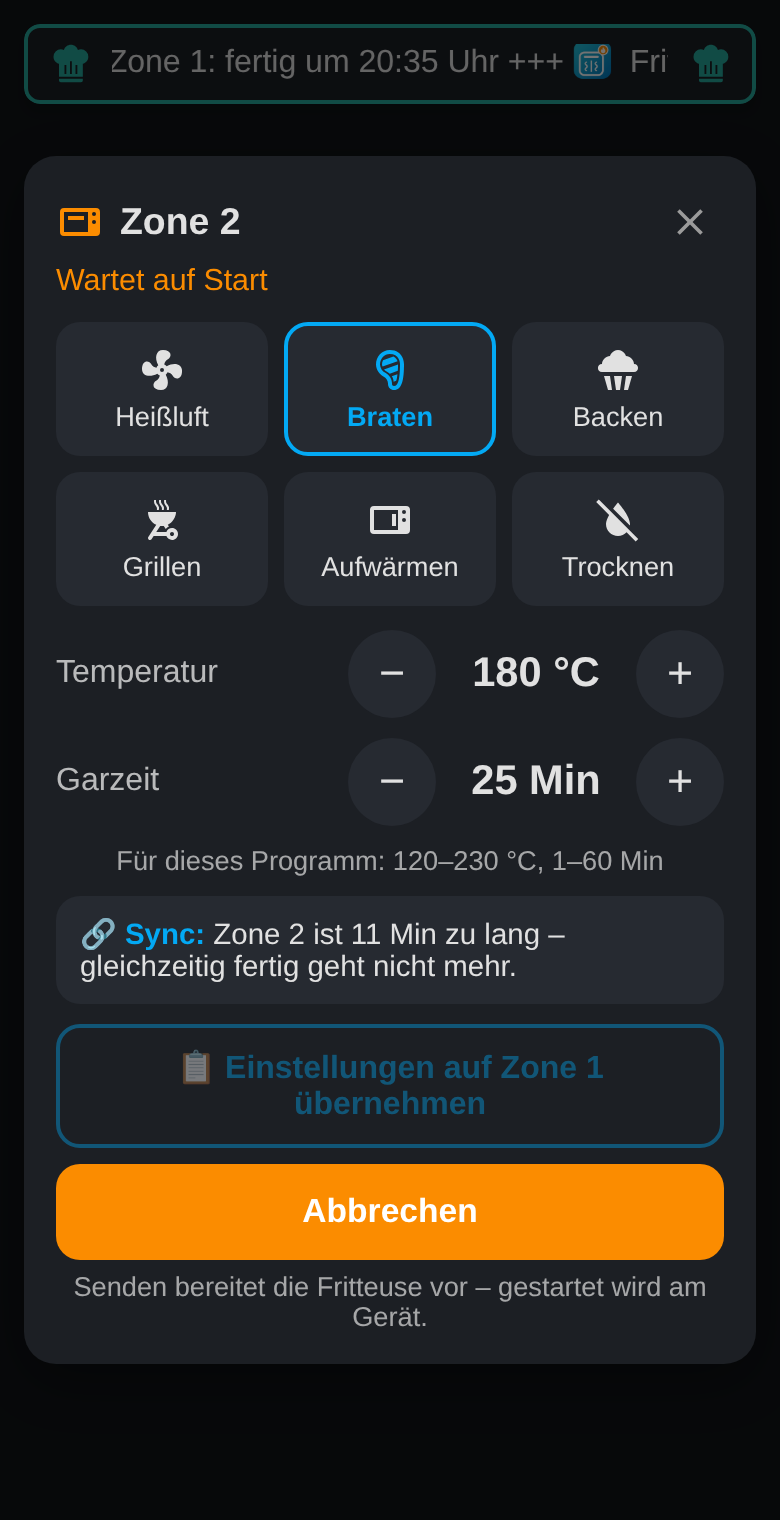
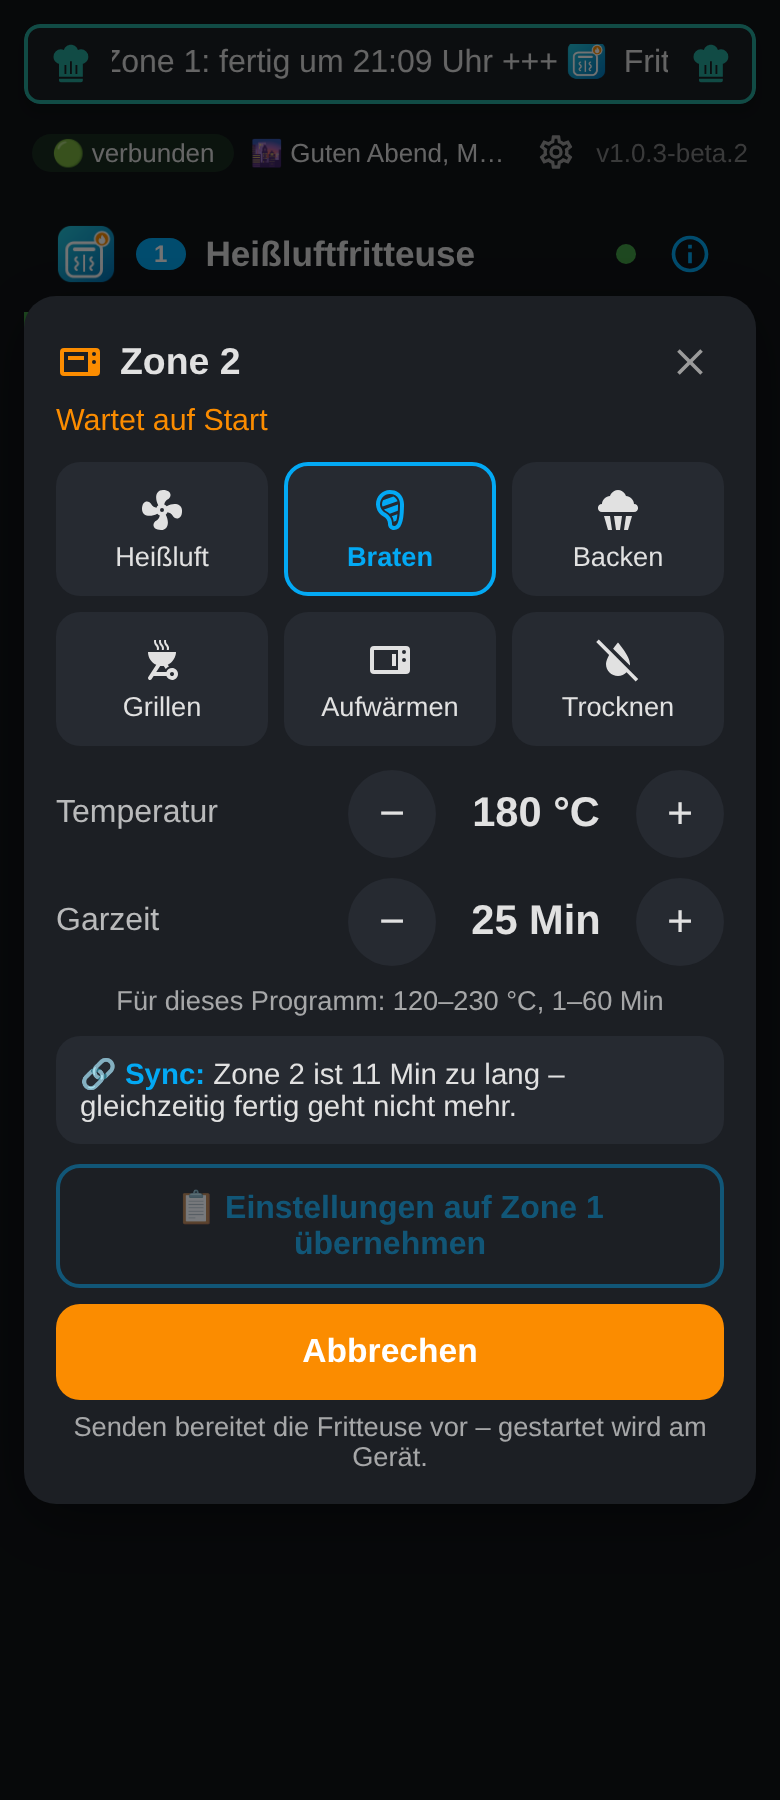
Beta 1.0.3-beta.2: Maskottchen auch in der Seitenleiste, Leiste oben und Anleitung wie bei der Einkaufsliste
- 🍟 Neuer Schalter in den Optionen der Integration: „Maskottchen in der Seitenleiste zeigen“
- 🟢 Leiste über der Karte: verbunden/offline, Gruß, ⚙ zu den Einstellungen (nur Admins), Version
- 🔢 Blaue Zahl oben = so viele Zonen garen gerade
- 📖 Knopf „Anleitung“ unter der Karte mit kurzer Erklärung
- Leiste und Anleitung lassen sich im Karten-Editor ausschalten

Claude-Session: https://claude.ai/code/session_01SxKsjdAqznATVt32xCzeSU

diff --git a/custom_components/airfryer_control/www/airfryer-control-card.js b/custom_components/airfryer_control/www/airfryer-control-card.js
@@ -146,6 +146,18 @@ const BASE_CSS = `
   @keyframes achop { 0%,100% { transform:translateY(0); } 40% { transform:translateY(-3px); } }
   @media (prefers-reduced-motion: reduce) { .ac-mascot { animation:none !important; } }
   .ac-head h2 { margin:0; font-size:1.1rem; font-weight:600; flex:1; }
+  /* 🟢 Leiste über der Karte – genau wie bei der Einkaufsliste */
+  .ac-top { display:flex; align-items:center; gap:8px; margin:0 4px 8px; font-size:13px; color:var(--secondary-text-color); }
+  .ac-pill { border-radius:999px; padding:2px 10px; background:color-mix(in srgb, var(--success-color,#43a047) 18%, transparent); color:var(--primary-text-color); white-space:nowrap; }
+  .ac-pill.off { background:color-mix(in srgb, var(--error-color,#db4437) 20%, transparent); }
+  .ac-greet { flex:1; min-width:0; overflow:hidden; white-space:nowrap; text-overflow:ellipsis; text-align:center; color:var(--primary-text-color); }
+  .ac-top .ac-ibtn { padding:2px; } .ac-top .ac-ibtn ha-icon { --mdc-icon-size:20px; }
+  .ac-ver { opacity:.8; }
+  .ac-badge { background:var(--primary-color,#03a9f4); color:var(--text-primary-color,#fff); border-radius:999px; padding:1px 9px; font-size:.75em; font-weight:600; }
+  /* 📖 Knopfreihe unter der Karte – wie bei der Einkaufsliste */
+  .ac-foot { display:flex; justify-content:center; gap:10px; margin:14px 6px 8px; font-size:13px; color:var(--secondary-text-color); }
+  .ac-foot button { font:inherit; color:inherit; background:none; text-decoration:underline; border:1px solid var(--divider-color, rgba(127,127,127,.3)); border-radius:12px; padding:8px 18px; cursor:pointer; }
+  .ac-guide h4 { margin:14px 0 4px; } .ac-guide p { margin:4px 0; line-height:1.45; }
   .ac-dot { width:10px; height:10px; border-radius:50%; background:#43A047; }
   .ac-dot.off { background:#9e9e9e; }
   .ac-ibtn { background:none; border:none; color:var(--secondary-text-color); cursor:pointer; padding:6px; border-radius:50%; display:flex; }
@@ -213,6 +225,27 @@ function creditsHtml(hass) {
   </div>`;
 }
 
+// 👋 Gruß in der Leiste oben – dieselben Zeiten wie bei der Einkaufsliste
+function acGreeting(hass, now = new Date()) {
+  const hr = now.getHours();
+  const de = hr >= 22 || hr < 5 ? "🌙 Gute Nacht" : hr < 10 ? "☀ Guten Morgen" : hr < 12 ? "🍽 Mahlzeit" : hr < 18 ? "👋 Grüß dich" : "🌆 Guten Abend";
+  const en = hr >= 22 || hr < 5 ? "🌙 Good night" : hr < 12 ? "☀ Good morning" : hr < 18 ? "👋 Hi" : "🌆 Good evening";
+  const first = String(hass?.user?.name || "").trim().split(/\s+/)[0];
+  const base = tr(hass, de, en);
+  return first ? `${base}, ${first}` : base;
+}
+// 📖 Kurze Anleitung (öffnet sich über den Knopf unter der Karte)
+function acGuideHtml(hass) {
+  const t = (d, e) => tr(hass, d, e);
+  return `<h3 style="margin:0 0 6px">📖 ${t("Anleitung", "Guide")}</h3>
+    <h4>🍟 ${t("Zonen", "Zones")}</h4><p>${t("Jede Zeile ist eine Zone deiner Fritteuse. Farbe und Text zeigen, was sie gerade macht: <b>grün</b> = gart, <b>orange</b> = wartet auf Start, <b>grau</b> = bereit oder aus.", "Each row is one zone of your air fryer. Colour and text show what it is doing: <b>green</b> = cooking, <b>orange</b> = waiting for start, <b>grey</b> = ready or off.")}</p>
+    <h4>⚙ ${t("Programm einstellen", "Set a program")}</h4><p>${t("Zeile antippen → Programm, Temperatur und Zeit wählen → <b>Senden</b>. Die Fritteuse ist dann vorbereitet – <b>gestartet wird immer am Gerät</b>.", "Tap a row → choose program, temperature and time → <b>Send</b>. The fryer is then prepared – <b>you always start it on the device</b>.")}</p>
+    <h4>⏹ ${t("Runder Knopf rechts", "Round button on the right")}</h4><p>${t("<b>Grün</b> = senden, <b>Orange</b> = abbrechen (noch nicht gestartet), <b>Rot</b> = Garen beenden.", "<b>Green</b> = send, <b>orange</b> = cancel (not started yet), <b>red</b> = stop cooking.")}</p>
+    <h4>🔗 ${t("Match & Sync", "Match & Sync")}</h4><p>${t("Bei zwei Zonen: „Einstellungen übernehmen“ kopiert die andere Zone. Sync sagt dir, wann du die zweite Zone startest, damit beide gleichzeitig fertig sind.", "With two zones: “Use settings” copies the other zone. Sync tells you when to start the second zone so both finish together.")}</p>
+    <h4>🔢 ${t("Oben", "At the top")}</h4><p>${t("Die blaue Zahl = so viele Zonen garen gerade. 🟢/🔴 = Fritteuse online oder offline. ⚙ (nur Admins) öffnet die Einstellungen der Integration, z. B. Seitenleiste und Maskottchen.", "The blue number = zones cooking right now. 🟢/🔴 = fryer online or offline. ⚙ (admins only) opens the integration settings, e.g. sidebar and mascot.")}</p>
+    <h4>🎃 ${t("Maskottchen", "Mascot")}</h4><p>${t("Im Karten-Editor (oder für die Seitenleiste in den Optionen der Integration) einschalten. Es zieht sich je nach Jahreszeit um.", "Switch it on in the card editor (or, for the sidebar, in the integration options). It changes costumes with the seasons.")}</p>`;
+}
+
 // ---------- Hauptkarte ----------
 class AirfryerControlCard extends HTMLElement {
   constructor() {
@@ -236,7 +269,7 @@ class AirfryerControlCard extends HTMLElement {
     const zones = findZones(hass);
     const sig = zones.map((z) => [z.state, z.finish, z.mode, z.temp, z.time, z.sw]
       .map((e) => { const s = hass.states[e]; return s ? s.state + "|" + (s.attributes?.min ?? "") + (s.attributes?.max ?? "") : "-"; }).join(",")).join(";")
-      + "#" + (hass.states["binary_sensor.cosori_online"]?.state || "") + this._open + (hass.language || "");
+      + "#" + (hass.states["binary_sensor.cosori_online"]?.state || "") + this._open + (hass.language || "") + new Date().getHours();
     if (sig === this._sig) return;
     this._sig = sig;
     this._zones = zones;
@@ -271,14 +304,22 @@ class AirfryerControlCard extends HTMLElement {
         <button class="ac-go" data-go="${esc(z.key)}" style="--b:${b.color}" title="${esc(b.text)}" ${z.sw ? "" : "disabled"}><ha-icon icon="${b.icon}"></ha-icon></button>
       </div>`;
     }).join("");
-    this.shadowRoot.innerHTML = `<style>${BASE_CSS}</style>
+    const running = zones.filter((z) => RUNNING.includes(hass.states[z.state]?.state)).length; // 🔢 Zahl-Blase = wie viele Zonen gerade garen
+    const on = online?.state === "on";
+    const top = this._config.statuszeile === false ? "" : `<div class="ac-top">
+        <span class="ac-pill ${on ? "" : "off"}">${on ? `🟢 ${esc(tr(hass, "verbunden", "connected"))}` : `🔴 ${esc(tr(hass, "offline", "offline"))}`}</span>
+        <span class="ac-greet">${esc(acGreeting(hass))}</span>
+        ${hass.user?.is_admin ? `<button class="ac-ibtn" data-settings title="${esc(tr(hass, "Einstellungen der Integration", "Integration settings"))}"><ha-icon icon="mdi:cog-outline"></ha-icon></button>` : ""}
+        ${AC_VERSION ? `<span class="ac-ver" translate="no">v${esc(AC_VERSION)}</span>` : ""}</div>`;
+    this.shadowRoot.innerHTML = `<style>${BASE_CSS}</style>${top}
       <ha-card>
-        <div class="ac-head">${this._config.maskottchen ? `<span class="ac-masc" title="${esc(tr(hass, "Maskottchen (im Karten-Editor abschaltbar)", "Mascot (switch off in the card editor)"))}">${acMascotSvg(acMood(hass, zones), acDeco())}</span>` : `<img class="ac-logo" src="${AC_BASE}/icon.png?v=${esc(AC_VERSION)}" alt="" width="30" height="30">`}<h2>${esc(title)}</h2>
+        <div class="ac-head">${this._config.maskottchen ? `<span class="ac-masc" title="${esc(tr(hass, "Maskottchen (im Karten-Editor abschaltbar)", "Mascot (switch off in the card editor)"))}">${acMascotSvg(acMood(hass, zones), acDeco())}</span>` : `<img class="ac-logo" src="${AC_BASE}/icon.png?v=${esc(AC_VERSION)}" alt="" width="30" height="30">`}${running ? `<span class="ac-badge" title="${esc(tr(hass, "Zonen, die gerade garen", "Zones cooking right now"))}">${running}</span>` : ""}<h2>${esc(title)}</h2>
           <span class="ac-dot ${online && online.state === "on" ? "" : "off"}" title="${online?.state === "on" ? "Online" : "Offline"}"></span>
           <button class="ac-ibtn" data-info title="Info"><ha-icon icon="mdi:information-outline"></ha-icon></button></div>
         <div class="ac-zones">${rows || `<div class="ac-empty">${esc(tr(hass, "Keine Zonen gefunden. Ist die Integration „Airfryer Control“ eingerichtet und die Fritteuse online?", "No zones found. Is the “Airfryer Control” integration set up and the fryer online?"))}</div>`}</div>
         ${this._dialogHtml(zones)}
-      </ha-card>`;
+      </ha-card>
+      ${this._config.anleitung === false ? "" : `<div class="ac-foot"><button type="button" data-guide>📖 ${esc(tr(hass, "Anleitung", "Guide"))}</button></div>`}`;
     this._wire();
   }
 
@@ -367,6 +408,9 @@ class AirfryerControlCard extends HTMLElement {
   _dialogHtml(zones) {
     const hass = this._hass;
     if (!this._open) return "";
+    if (this._open === "__guide") {
+      return `<div class="ac-over" data-close><div class="ac-dlg ac-guide">${acGuideHtml(hass)}<button class="ac-big" data-close style="--b:var(--primary-color)">${esc(tr(hass, "Schließen", "Close"))}</button></div></div>`;
+    }
     if (this._open === "__credits") {
       return `<div class="ac-over" data-close><div class="ac-dlg">${creditsHtml(hass)}<button class="ac-big" data-close style="--b:var(--primary-color)">${esc(tr(hass, "Schließen", "Close"))}</button></div></div>`;
     }
@@ -408,6 +452,11 @@ class AirfryerControlCard extends HTMLElement {
     }));
     const info = root.querySelector("[data-info]");
     if (info) info.addEventListener("click", () => { this._open = "__credits"; this._sig = ""; this.hass = this._hass; });
+    root.querySelector("[data-guide]")?.addEventListener("click", () => { this._open = "__guide"; this._sig = ""; this.hass = this._hass; });
+    root.querySelector("[data-settings]")?.addEventListener("click", () => { // ⚙ direkt zu den Optionen der Integration
+      history.pushState(null, "", "/config/integrations/integration/airfryer_control");
+      window.dispatchEvent(new CustomEvent("location-changed", { detail: { replace: false } }));
+    });
     root.querySelectorAll("[data-close]").forEach((el) => el.addEventListener("click", (e) => {
       if (el.classList.contains("ac-over") && e.target !== el) return;
       this._open = null; this._sig = ""; this.hass = this._hass;
@@ -555,8 +604,9 @@ class AirfryerControlTicker extends HTMLElement {
 }
 
 // ---------- Editoren ----------
-function makeEditor(schemaFn, labelFn) {
+function makeEditor(schemaFn, labelFn, defaults) {
   return class extends HTMLElement {
+    get _defaults() { return defaults; }
     setConfig(config) { this._config = config; this._draw(); }
     set hass(hass) { this._hass = hass; this._draw(); }
     _draw() {
@@ -570,16 +620,16 @@ function makeEditor(schemaFn, labelFn) {
         this.appendChild(this._form);
       }
       this._form.hass = this._hass;
-      this._form.data = this._config;
+      this._form.data = { ...(this._defaults || {}), ...this._config }; // 🟢 Schalter, die standardmäßig AN sind, auch so anzeigen
       this._form.schema = schemaFn(this._hass);
       this._form.computeLabel = (s) => labelFn(this._hass, s.name);
     }
   };
 }
-const cardLabels = { title: ["Titel", "Title"], maskottchen: ["🍟 Maskottchen Airfryer oben links zeigen", "🍟 Show air fryer mascot top left"] };
+const cardLabels = { title: ["Titel", "Title"], maskottchen: ["🍟 Maskottchen Airfryer oben links zeigen", "🍟 Show air fryer mascot top left"], statuszeile: ["🟢 Leiste über der Karte (verbunden, Gruß, Version)", "🟢 Bar above the card (connected, greeting, version)"], anleitung: ["📖 Knopf „Anleitung“ unter der Karte", "📖 “Guide” button below the card"] };
 customElements.define("airfryer-control-card-editor", makeEditor(
-  () => [{ name: "title", selector: { text: {} } }, { name: "maskottchen", selector: { boolean: {} } }],
-  (h, n) => { const l = cardLabels[n]; return l ? tr(h, l[0], l[1]) : n; }));
+  () => [{ name: "title", selector: { text: {} } }, { name: "maskottchen", selector: { boolean: {} } }, { name: "statuszeile", selector: { boolean: {} } }, { name: "anleitung", selector: { boolean: {} } }],
+  (h, n) => { const l = cardLabels[n]; return l ? tr(h, l[0], l[1]) : n; }, { statuszeile: true, anleitung: true }));
 const tickLabels = {
   extra_entities: ["Zusätzliche Kochtimer (z. B. sensor.einkaufsliste_kochtimer)", "Extra timers (e.g. sensor.einkaufsliste_kochtimer)"],
   hide_when_idle: ["Ausblenden, wenn nichts läuft", "Hide when idle"],

diff --git a/custom_components/airfryer_control/www/airfryer-control-panel.js b/custom_components/airfryer_control/www/airfryer-control-panel.js
@@ -50,7 +50,7 @@ class AirfryerControlPanel extends HTMLElement {
       const ticker = document.createElement("airfryer-control-ticker");
       ticker.setConfig({ hide_when_idle: true });
       const card = document.createElement("airfryer-control-card");
-      card.setConfig({ title: this._de() ? "Heißluftfritteuse" : "Air fryer" });
+      card.setConfig({ title: this._de() ? "Heißluftfritteuse" : "Air fryer", maskottchen: !!this._panel?.config?.maskottchen }); // 🍟 Schalter in den Integrations-Optionen
       this._cards = [ticker, card];
       this._wrap.append(ticker, card);
       if (this._hass) for (const c of this._cards) c.hass = this._hass;

diff --git a/tests/test_integration.py b/tests/test_integration.py
@@ -238,7 +238,7 @@ async def test_options_flow(hass: HomeAssistant) -> None:
         result["flow_id"], {"intervall": 120, "zeiteinheit": "minuten"}
     )
     assert result["type"] is FlowResultType.CREATE_ENTRY
-    assert entry.options == {"intervall": 120, "zeiteinheit": "minuten", "sidebar": False}
+    assert entry.options == {"intervall": 120, "zeiteinheit": "minuten", "sidebar": False, "maskottchen": False}
 
 
 async def test_reauth_when_login_fails(hass: HomeAssistant, fake_api) -> None:
@@ -678,6 +678,12 @@ async def test_sidebar_option_registers_and_removes_panel(hass: HomeAssistant, f
     assert panel.sidebar_title == "Fritteuse"
     assert panel.sidebar_icon == "mdi:toaster-oven"
     assert panel.require_admin is False
+    assert panel.config["maskottchen"] is False  # 🍟 Standard: aus
+
+    hass.config_entries.async_update_entry(entry, options={**entry.options, "maskottchen": True})
+    await hass.async_block_till_done()
+    panel = hass.data[frontend.DATA_PANELS][PANEL_URL_PATH]
+    assert panel.config["maskottchen"] is True  # 🍟 Schalter in den Optionen kommt in der Seitenleiste an
 
     hass.config_entries.async_update_entry(entry, options={**entry.options, OPT_SIDEBAR: False})
     await hass.async_block_till_done()

diff --git a/custom_components/airfryer_control/config_flow.py b/custom_components/airfryer_control/config_flow.py
@@ -41,6 +41,7 @@ from .const import (
     MAX_INTERVAL,
     MIN_INTERVAL,
     OPT_INTERVAL,
+    OPT_MASCOT,
     OPT_SIDEBAR,
     OPT_TIME_UNIT,
     REGIONS,
@@ -179,6 +180,7 @@ class AirfryerOptionsFlow(OptionsFlow):
         if user_input is not None:
             user_input[OPT_INTERVAL] = int(user_input[OPT_INTERVAL])
             user_input[OPT_SIDEBAR] = bool(user_input.get(OPT_SIDEBAR, False))
+            user_input[OPT_MASCOT] = bool(user_input.get(OPT_MASCOT, False))
             return self.async_create_entry(data=user_input)
         opts = self.config_entry.options
         schema = vol.Schema(
@@ -204,6 +206,7 @@ class AirfryerOptionsFlow(OptionsFlow):
                     )
                 ),
                 vol.Optional(OPT_SIDEBAR, default=bool(opts.get(OPT_SIDEBAR, False))): BooleanSelector(),
+                vol.Optional(OPT_MASCOT, default=bool(opts.get(OPT_MASCOT, False))): BooleanSelector(),
             }
         )
         return self.async_show_form(step_id="init", data_schema=schema)

diff --git a/custom_components/airfryer_control/frontend.py b/custom_components/airfryer_control/frontend.py
@@ -116,7 +116,7 @@ def sidebar_wanted(hass: HomeAssistant, skip_entry_id: str | None = None) -> boo
     )
 
 
-async def async_set_sidebar(hass: HomeAssistant, enabled: bool) -> None:
+async def async_set_sidebar(hass: HomeAssistant, enabled: bool, mascot: bool = False) -> None:
     """📌 Fritteuse als eigener Eintrag in der Seitenleiste (Option, standardmäßig aus)."""
     from homeassistant.components import frontend, panel_custom  # noqa: PLC0415
 
@@ -135,7 +135,7 @@ async def async_set_sidebar(hass: HomeAssistant, enabled: bool) -> None:
             sidebar_title="Fritteuse",
             sidebar_icon="mdi:toaster-oven",
             require_admin=False,
-            config={"card_url": f"{CARD_URL}?v={version}"},
+            config={"card_url": f"{CARD_URL}?v={version}", "maskottchen": mascot},  # 🍟 Maskottchen auch in der Seitenleiste
         )
     except Exception:  # noqa: BLE001
         _LOGGER.warning("Seitenleisten-Eintrag konnte nicht angelegt werden", exc_info=True)

diff --git a/custom_components/airfryer_control/__init__.py b/custom_components/airfryer_control/__init__.py
@@ -18,7 +18,7 @@ from homeassistant.helpers.update_coordinator import UpdateFailed
 from .core.api import AirfryerApi, AirfryerAuthError, AirfryerError
 from .const import CONF_EMAIL, CONF_PASSWORD_HASH, CONF_REGION, CONF_TERMINAL_ID, DOMAIN
 from .coordinator import AirfryerCoordinator
-from .const import OPT_SIDEBAR
+from .const import OPT_MASCOT, OPT_SIDEBAR
 from .frontend import async_set_sidebar, async_setup_frontend, sidebar_wanted
 from .services import async_register_services
 
@@ -70,7 +70,7 @@ async def async_setup_entry(hass: HomeAssistant, entry: AirfryerConfigEntry) -> 
     await hass.config_entries.async_forward_entry_setups(entry, PLATFORMS)
     entry.async_on_unload(entry.add_update_listener(_async_reload))
     if entry.options.get(OPT_SIDEBAR, False):
-        await async_set_sidebar(hass, True)  # 📌 nur wenn eingeschaltet
+        await async_set_sidebar(hass, True, bool(entry.options.get(OPT_MASCOT, False)))  # 📌 nur wenn eingeschaltet
     return True
 
 

diff --git a/custom_components/airfryer_control/const.py b/custom_components/airfryer_control/const.py
@@ -163,3 +163,4 @@ CARD_FILENAME = "airfryer-control-card.js"
 PANEL_URL_PATH = "airfryer-control"
 PANEL_FILENAME = "airfryer-control-panel.js"
 OPT_SIDEBAR = "sidebar"  # Eintrag in der Seitenleiste (Standard: aus)
+OPT_MASCOT = "maskottchen"  # 🍟 Maskottchen in der Seitenleisten-Ansicht (Standard: aus)

diff --git a/README.md b/README.md
@@ -111,6 +111,9 @@ Du musst **nichts extra installieren** – die Integration bringt zwei Karten se
 ```yaml
 type: custom:airfryer-control-card
 title: Heißluftfritteuse
+maskottchen: true   # 🍟 kleiner Airfryer mit Gesicht oben links (Standard: aus)
+statuszeile: true   # 🟢 Leiste über der Karte: verbunden, Gruß, ⚙, Version (Standard: an)
+anleitung: true     # 📖 Knopf „Anleitung“ unter der Karte (Standard: an)
 ```
 ```yaml
 type: custom:airfryer-control-ticker
@@ -120,7 +123,7 @@ extra_entities:
 speed: 60      # Pixel pro Sekunde (20–200)
 ```
 
-Die Handy-Seite und die Seitenleiste (Option „📌 In der Seitenleiste anzeigen“, standardmäßig aus) zeigen dieselben Karten.
+Die Handy-Seite und die Seitenleiste (Option „📌 In der Seitenleiste anzeigen“, standardmäßig aus) zeigen dieselben Karten. Das Maskottchen schaltest du für die Seitenleiste in denselben Optionen ein („🍟 Maskottchen in der Seitenleiste zeigen“).
 
 Beide Karten haben einen Editor, passen sich Hell/Dunkel an und laufen auch flüssig auf dem Fire TV. Die Zonen werden automatisch gefunden. Die Karten reden nur mit deinem Home Assistant.
 

diff --git a/README.en.md b/README.en.md
@@ -106,6 +106,9 @@ Nothing extra to install – the integration ships two cards and registers them 
 ```yaml
 type: custom:airfryer-control-card
 title: Air fryer
+maskottchen: true   # 🍟 little air fryer with a face top left (default: off)
+statuszeile: true   # 🟢 bar above the card: connected, greeting, ⚙, version (default: on)
+anleitung: true     # 📖 “Guide” button below the card (default: on)
 ```
 ```yaml
 type: custom:airfryer-control-ticker
@@ -114,7 +117,7 @@ extra_entities:
   - sensor.einkaufsliste_kochtimer
 ```
 
-The phone page and the sidebar (option “📌 Show in sidebar”, off by default) show the same cards.
+The phone page and the sidebar (option “📌 Show in sidebar”, off by default) show the same cards. For the sidebar you switch the mascot on in the same options (“🍟 Show mascot in the sidebar”).
 
 Both cards have an editor, follow light/dark and run smoothly on a Fire TV. Zones are detected automatically. The cards only talk to your Home Assistant.
 
